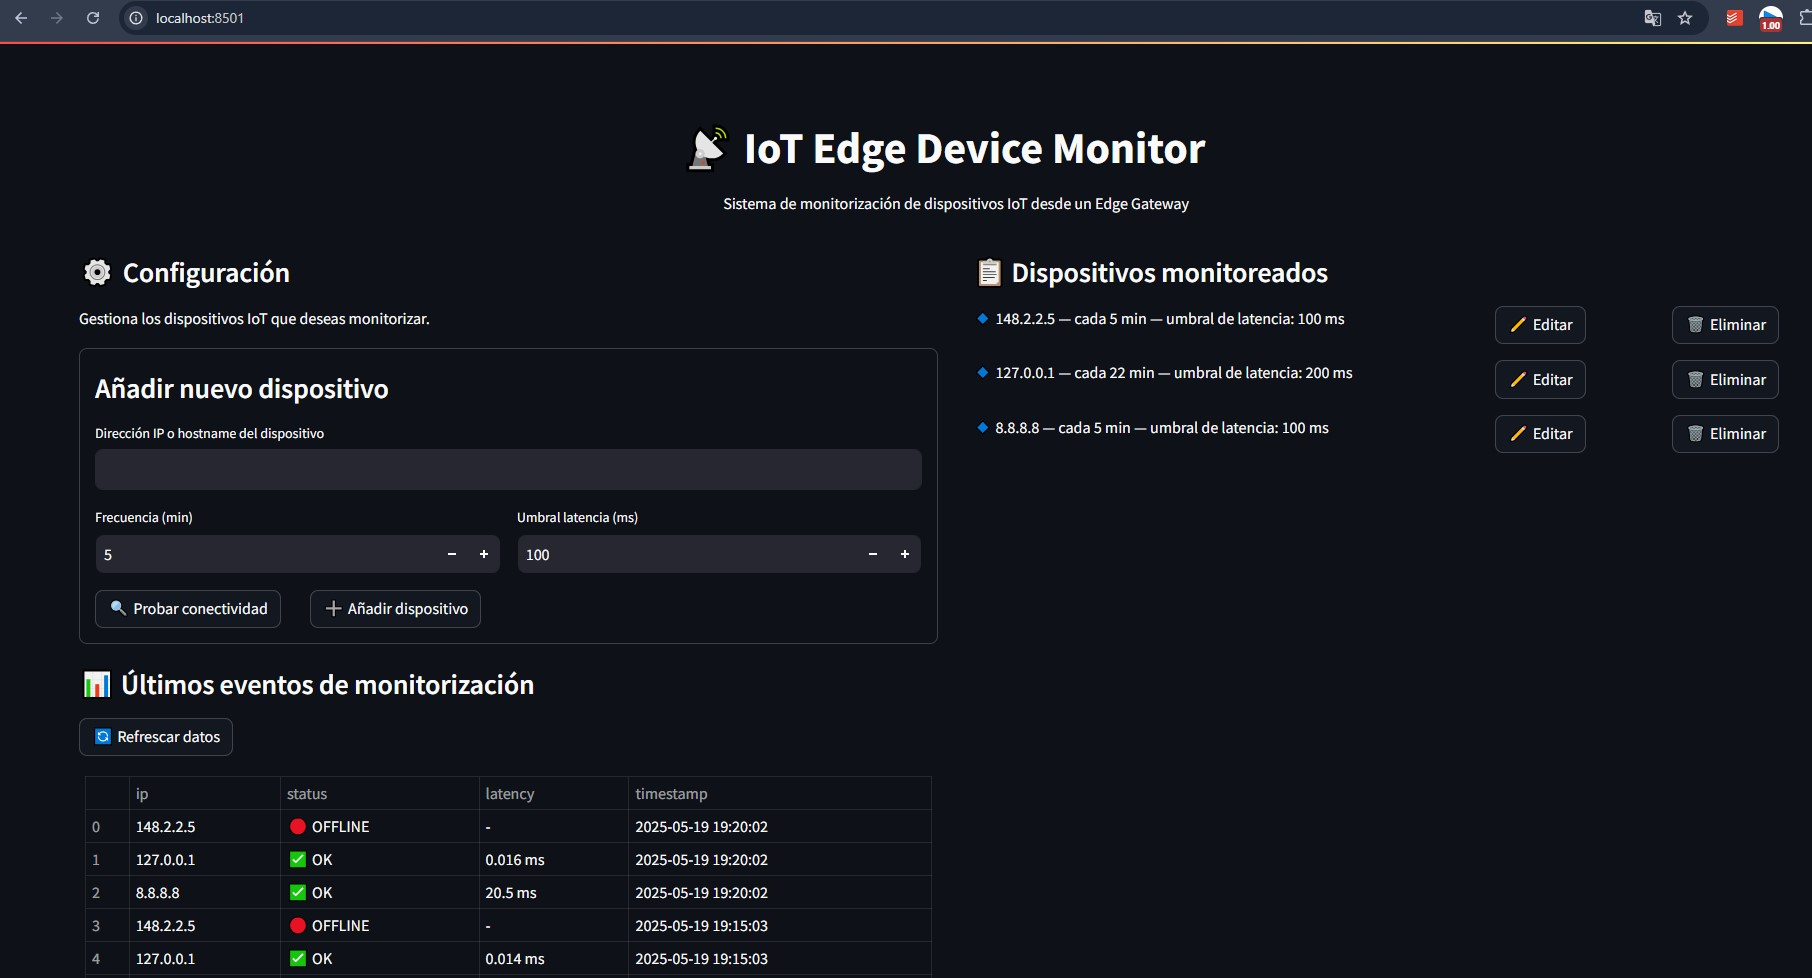
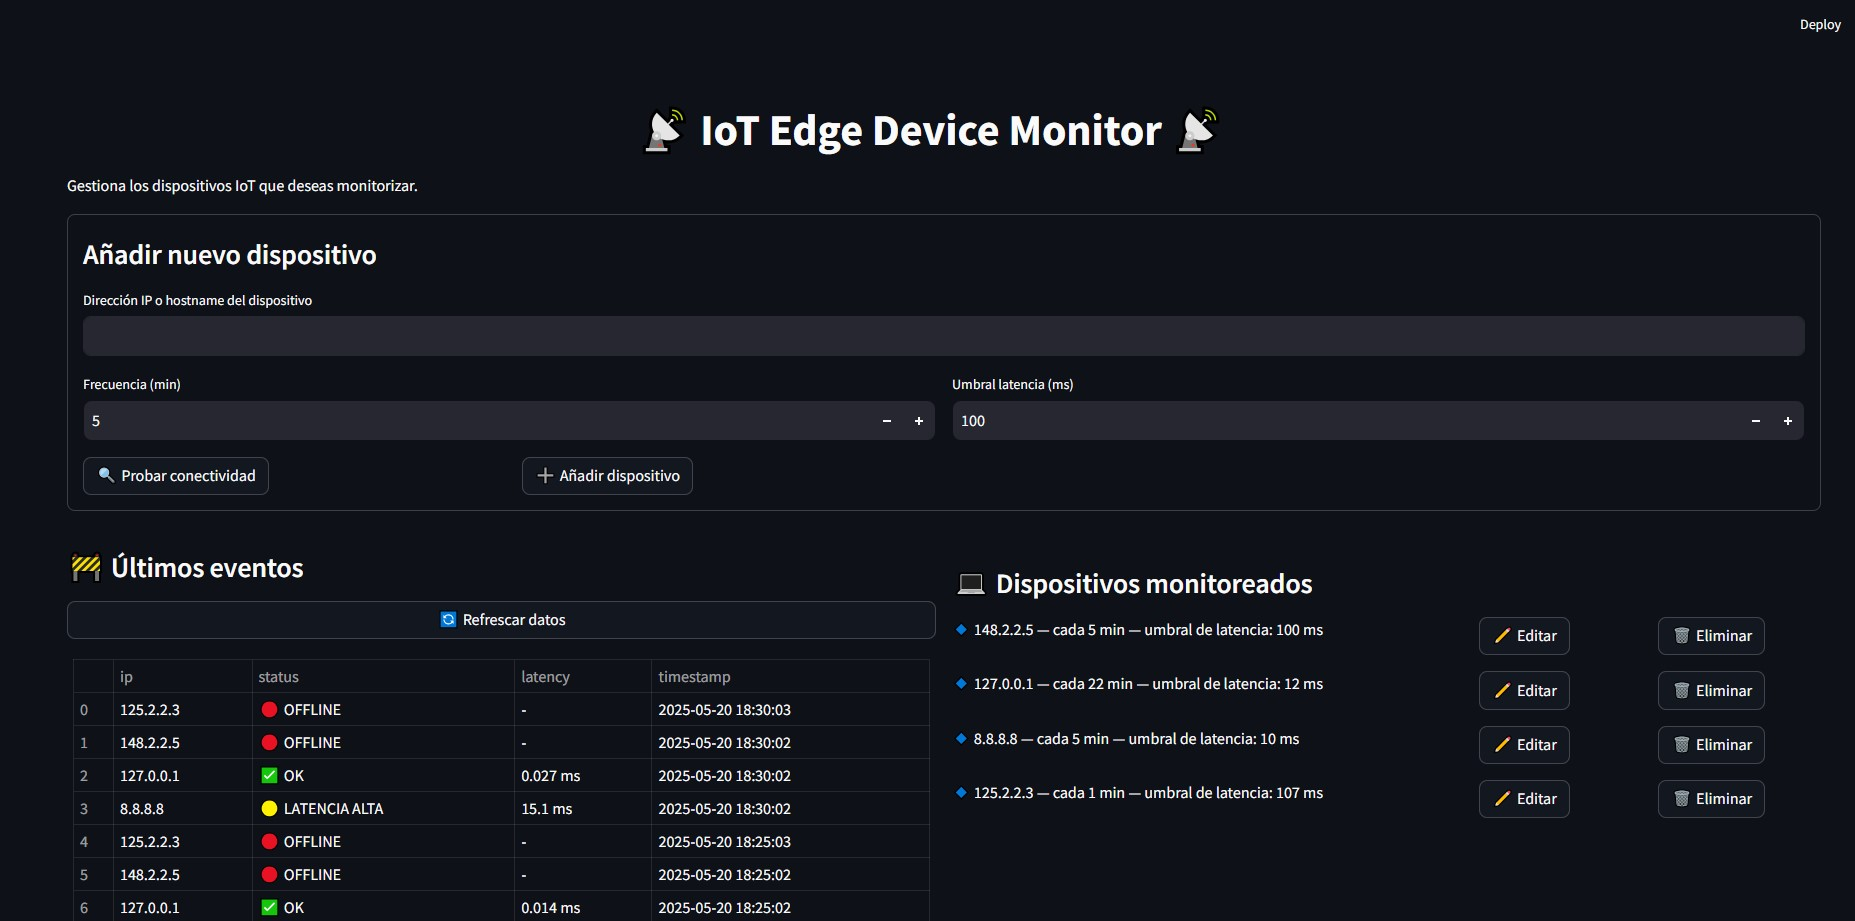
Reorganize view

diff --git a/streamlit_ui/app.py b/streamlit_ui/app.py
@@ -7,71 +7,63 @@ from modules import network_tools
 
 # Configuración de la página
 st.set_page_config(page_title="IoT Edge Monitor", layout="wide")
-st.title("📡 IoT Edge Device Monitor")
-st.markdown("Sistema de monitorización de dispositivos IoT desde un Edge Gateway")
+st.markdown("<h1 style='text-align: center;'>📡 IoT Edge Device Monitor 📡</h1>", unsafe_allow_html=True)
 
 # Inicializar estados de sesión si no existen
 if 'editing_device' not in st.session_state:
     st.session_state.editing_device = None
 
-# Crear dos columnas principales
-col1, col2, col3 = st.columns([9, 0.1, 9])
 
-# ─────────────────────────────────────
-# 📍 Columna izquierda: Configuración
-# ─────────────────────────────────────
-with col1:
-    st.subheader("⚙ Configuración")
-    st.markdown("Gestiona los dispositivos IoT que deseas monitorizar.")
+st.markdown("Gestiona los dispositivos IoT que deseas monitorizar.")
 
-    # Formulario para añadir o editar dispositivos
-    if st.session_state.editing_device is None:
-        with st.form("add_device_form"):
-            st.markdown("### Añadir nuevo dispositivo")
-            ip_or_hostname = st.text_input("Dirección IP o hostname del dispositivo", "")
+# Formulario para añadir o editar dispositivos
+if st.session_state.editing_device is None:
+    with st.form("add_device_form"):
+        st.markdown("### Añadir nuevo dispositivo")
+        ip_or_hostname = st.text_input("Dirección IP o hostname del dispositivo", "")
 
-            # Dividir los parámetros en dos columnas dentro del formulario
-            form_col1, form_col2 = st.columns(2)
-            with form_col1:
-                frequency = st.number_input("Frecuencia (min)", min_value=1, value=5)
-            with form_col2:
-                latency_threshold = st.number_input("Umbral latencia (ms)", min_value=1, value=100)
+        # Dividir los parámetros en dos columnas dentro del formulario
+        form_col1, form_col2 = st.columns(2)
+        with form_col1:
+            frequency = st.number_input("Frecuencia (min)", min_value=1, value=5)
+        with form_col2:
+            latency_threshold = st.number_input("Umbral latencia (ms)", min_value=1, value=100)
 
-            col_ping1, col_ping2 = st.columns([1, 3])
-            ping_clicked = col_ping1.form_submit_button("🔍 Probar conectividad")
-            submitted = col_ping2.form_submit_button("➕ Añadir dispositivo")
+        col_ping1, col_ping2 = st.columns([1, 3])
+        ping_clicked = col_ping1.form_submit_button("🔍 Probar conectividad")
+        submitted = col_ping2.form_submit_button("➕ Añadir dispositivo")
 
-            if ping_clicked:
-                if ip_or_hostname:
-                    success, response = network_tools.ping_host(ip_or_hostname)
-                    if success:
-                        st.success("✅ El host respondió correctamente al ping.")
-                        st.text(response)
-                    else:
-                        st.error("❌ El host no respondió.")
-                        st.text(response)
+        if ping_clicked:
+            if ip_or_hostname:
+                success, response = network_tools.ping_host(ip_or_hostname)
+                if success:
+                    st.success("✅ El host respondió correctamente al ping.")
+                    st.text(response)
                 else:
-                    st.warning("⚠ Introduce primero una IP o hostname.")
+                    st.error("❌ El host no respondió.")
+                    st.text(response)
+            else:
+                st.warning("⚠ Introduce primero una IP o hostname.")
 
-            if submitted:
-                if not re.match(r"^(\d{1,3})\.(\d{1,3})\.(\d{1,3})\.(\d{1,3})$", ip_or_hostname):
-                    st.error("❌ IP o hostname no válido.")
+        if submitted:
+            if not re.match(r"^(\d{1,3})\.(\d{1,3})\.(\d{1,3})\.(\d{1,3})$", ip_or_hostname):
+                st.error("❌ IP o hostname no válido.")
+            else:
+                octetos = ip_or_hostname.split('.')
+                is_valid_ip = all(0 <= int(octeto) <= 255 for octeto in octetos)
+                if not is_valid_ip:
+                    st.error("❌ IP inválida: octetos fuera de rango.")
                 else:
-                    octetos = ip_or_hostname.split('.')
-                    is_valid_ip = all(0 <= int(octeto) <= 255 for octeto in octetos)
-                    if not is_valid_ip:
-                        st.error("❌ IP inválida: octetos fuera de rango.")
-                    else:
-                        device = {
-                            "host": ip_or_hostname,
-                            "frequency_min": frequency,
-                            "latency_ms": latency_threshold
-                        }
-                        config_manager.save_device(device)
-                        st.success(f"✅ Dispositivo '{ip_or_hostname}' guardado correctamente.")
-                        time.sleep(1)
-                        st.rerun()
-    else:
+                    device = {
+                        "host": ip_or_hostname,
+                        "frequency_min": frequency,
+                        "latency_ms": latency_threshold
+                    }
+                    config_manager.save_device(device)
+                    st.success(f"✅ Dispositivo '{ip_or_hostname}' guardado correctamente.")
+                    time.sleep(1)
+                    st.rerun()
+else:
         # Formulario para editar dispositivo existente
         with st.form("edit_device_form"):
             st.markdown(f"### Editar dispositivo")
@@ -106,10 +98,20 @@ with col1:
                 time.sleep(1)
                 st.rerun()
 
-    st.subheader("📊 Últimos eventos de monitorización")
+st.markdown(' ')
 
+# Crear dos columnas principales
+col1, col2 = st.columns(2)
+
+# ─────────────────────────────────────
+# 📍 Columna izquierda: Configuración
+# ─────────────────────────────────────
+with col1:
+
+
+    st.subheader("🚧 Últimos eventos")
     # Botón para refrescar manualmente
-    if st.button("🔄 Refrescar datos"):
+    if st.button("🔄 Refrescar datos", use_container_width=True):
         st.rerun()
 
     # Contenedor para los logs
@@ -124,13 +126,9 @@ with col1:
 
 
 with col2:
-    pass
+    st.markdown(' ')
 
-# ─────────────────────────────────────
-# 📍 Columna derecha: Monitorización
-# ─────────────────────────────────────
-with col3:
-    st.subheader("📋 Dispositivos monitoreados")
+    st.subheader("💻 Dispositivos monitoreados")
 
     devices = config_manager.load_devices()
     if devices:
